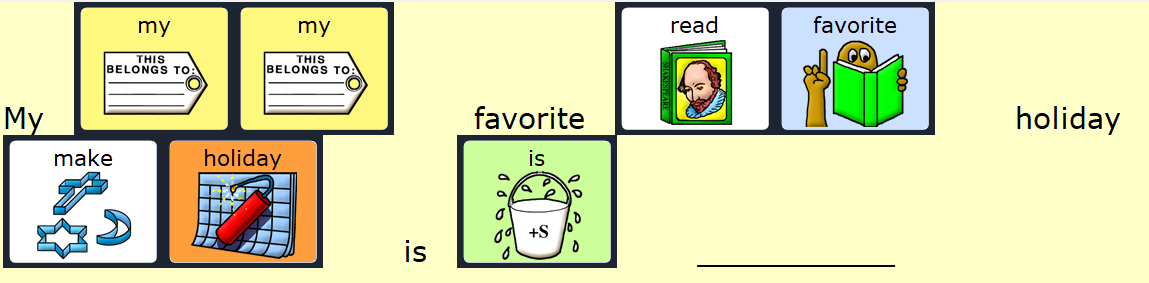
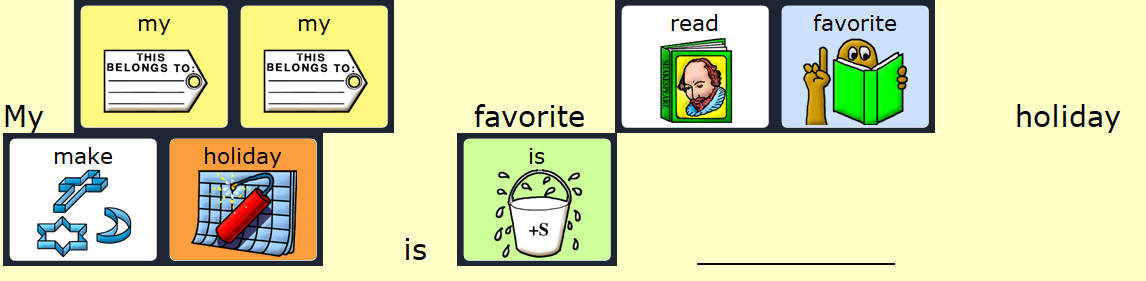
added holiday theme

diff --git a/sentence.html b/sentence.html
@@ -36,6 +36,7 @@
       <div class="button-container">
          <div class="sentence-button">
             <button id="buttonOne" type="button" onclick="start_game()">Start Game</button>
+            <button type="button" id="holidays" onclick="holidayMode()">Holiday Mode</button>
          </div>
       </div>
       
@@ -46,6 +47,7 @@
       let image_sets = [["sentence_one(1)", "sentence_one(2)", "sentence_one(3)","sentence_one(4)"],["sentence_two(1)","sentence_two(2)","sentence_two(3)","sentence_two(4)","sentence_two(5)","sentence_two(6)"],["sentence_three(1)","sentence_three(2)","sentence_three(3)","sentence_three(4)","sentence_three(5)"],["sentence_four(1)","sentence_four(2)","sentence_four(3)","sentence_four(4)","sentence_four(5)"],["sentence_five(1)","sentence_five(2)","sentence_five(3)","sentence_five(4)","sentence_five(5)"],["sentence_six(1)","sentence_six(2)","sentence_six(3)","sentence_six(4)","sentence_six(5)"]]
       let my_image_set = [];
       var image_counter = 0;
+      var holidayModes = false;
       function start_game(){
 
          my_image_set = image_sets[Math.floor(Math.random() * image_sets.length)];
@@ -74,7 +76,25 @@
           console.log("onlick: " + document.getElementById("buttonOne").onclick);
 
       }
-      
+      function holidayMode() {
+         holidayModes = !(holidayModes);
+         if(holidayModes) {
+            document.getElementById("instructions").style.color="white";
+            document.body.style.backgroundImage = "url('images/background-image(2).jpeg')";
+            document.getElementById("buttonOne").style.backgroundColor = "#b38600";
+            document.getElementById("holidays").style.backgroundColor = "#b38600";
+            document.getElementById("holidays").style.color = "black";
+            document.getElementById("buttonOne").style.color = "black";
+         }
+         else if (!holidayModes){
+            document.getElementById("instructions").style.color="black";
+            document.body.style.backgroundImage = "url('#')";
+            document.getElementById("buttonOne").style.backgroundColor = "black";
+            document.getElementById("holidays").style.backgroundColor = "black";
+            document.getElementById("holidays").style.color = "white";
+            document.getElementById("buttonOne").style.color = "white";
+         }
+      }
       
      </script>
 </body>

diff --git a/blank.html b/blank.html
@@ -9,7 +9,7 @@
 <body>
    <h1 id="blank-title">Answer the Question</h1>
    
-   <img style="border: 10px solid black;" src="images/start.png" id="question" class="center">
+   <img src="images/start.png" id="question" class="center">
    <div id="center-button">
       <button id="next" type="button" onclick="next()">Start</button>
       <button type="button" id="holiday" onclick="holidayMode()">Holiday Mode</button>

diff --git a/main.css b/main.css
@@ -117,6 +117,9 @@ button{
   width: 20%;
   height: 100%;
 }
+#question {
+   border: 10px solid black;
+}
 #center-button {
    text-align: center;
    
